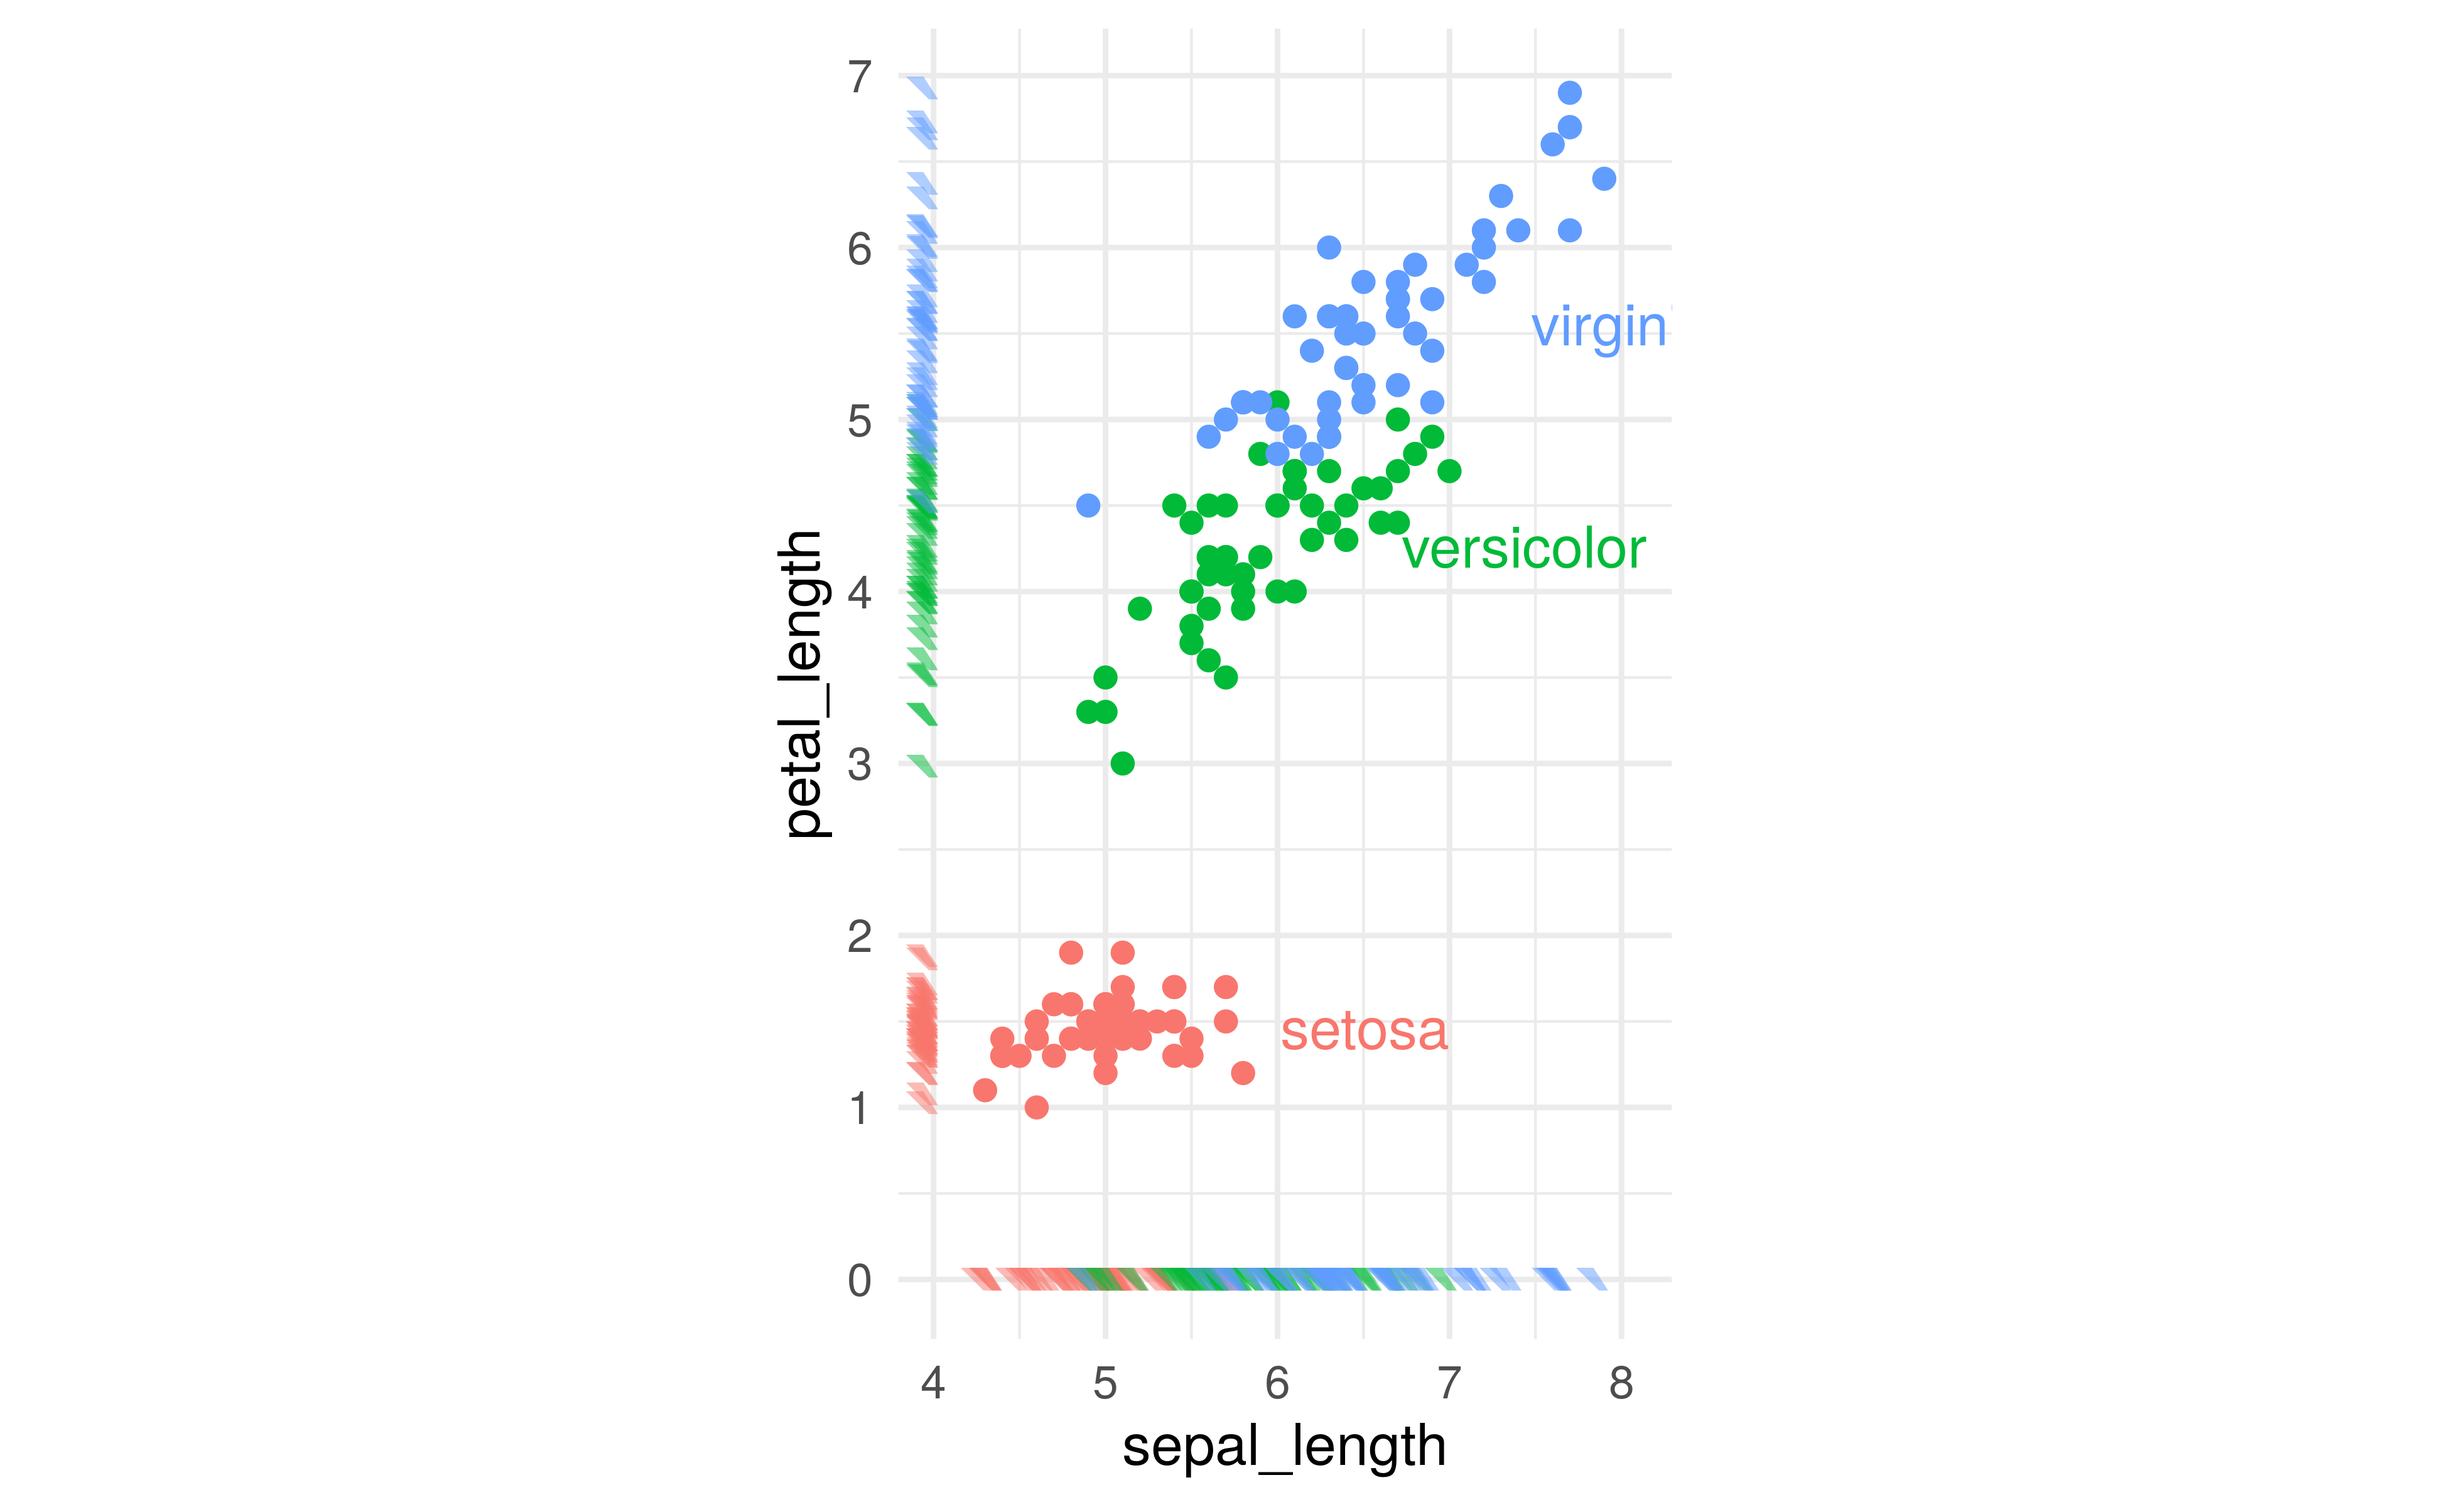
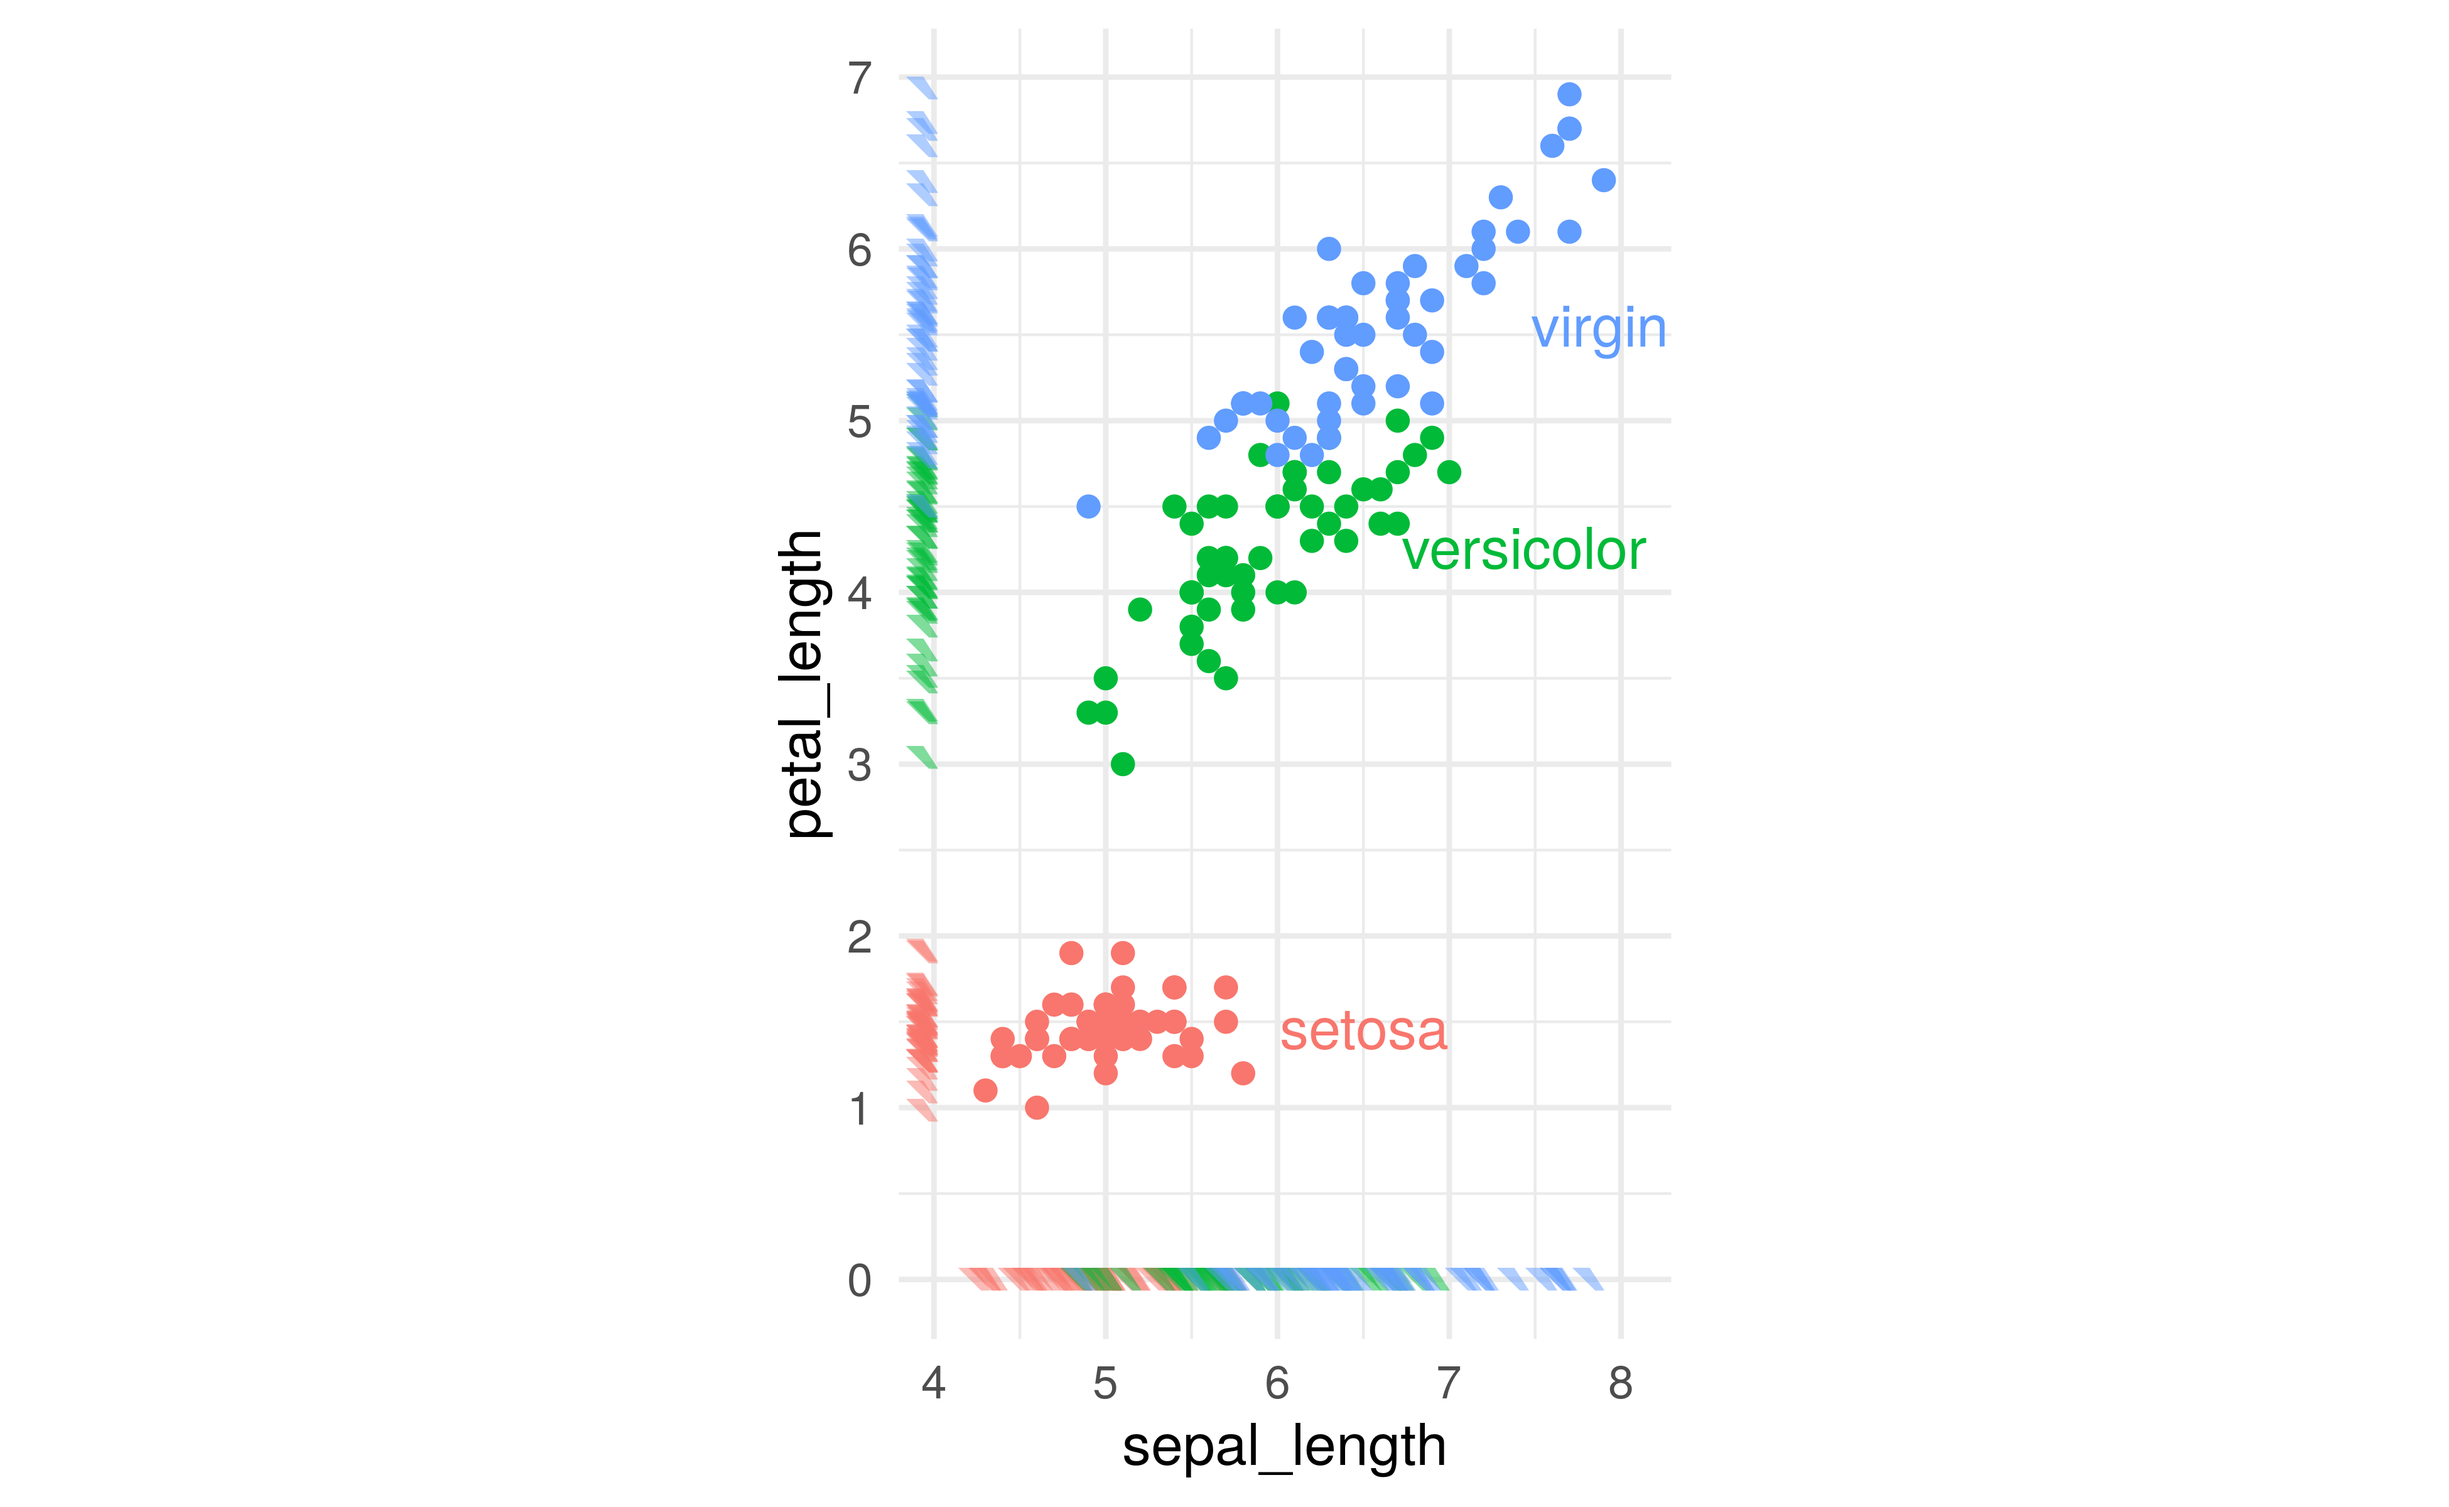
add forgotten axes title

diff --git a/docs/01strip.html b/docs/01strip.html
@@ -1588,6 +1588,7 @@ theme_void() +
   theme(axis.ticks = element_line(),
         axis.ticks.length = unit(0.05, &quot;cm&quot;), 
         axis.text = element_text(size = rel(0.8)),
+        axis.title.y = element_text(vjust = 0, hjust = 0.5),
         legend.position = &quot;none&quot;,
         axis.text.x = element_text(margin = margin(t = 5), vjust = 0),
         axis.text.y = element_text(margin = margin(r = 5), hjust = 0),
@@ -1611,6 +1612,7 @@ point &lt;- point + geom_vline(aes(xintercept = x),
   scale_colour_tableau(&quot;Traffic&quot;) +
   theme(axis.ticks = element_line(colour = avg_traffic),
         text = element_text(colour = avg_traffic),
+        axis.title.y = element_text(colour = avg_traffic, vjust = 0.5, hjust = 0.5),
         plot.background = element_rect(fill = &quot;#FFFAF5&quot;),
         panel.spacing = unit(0, &quot;cm&quot;),
         plot.margin = unit(c(1, 1, 1, 1), &quot;cm&quot;)) +
